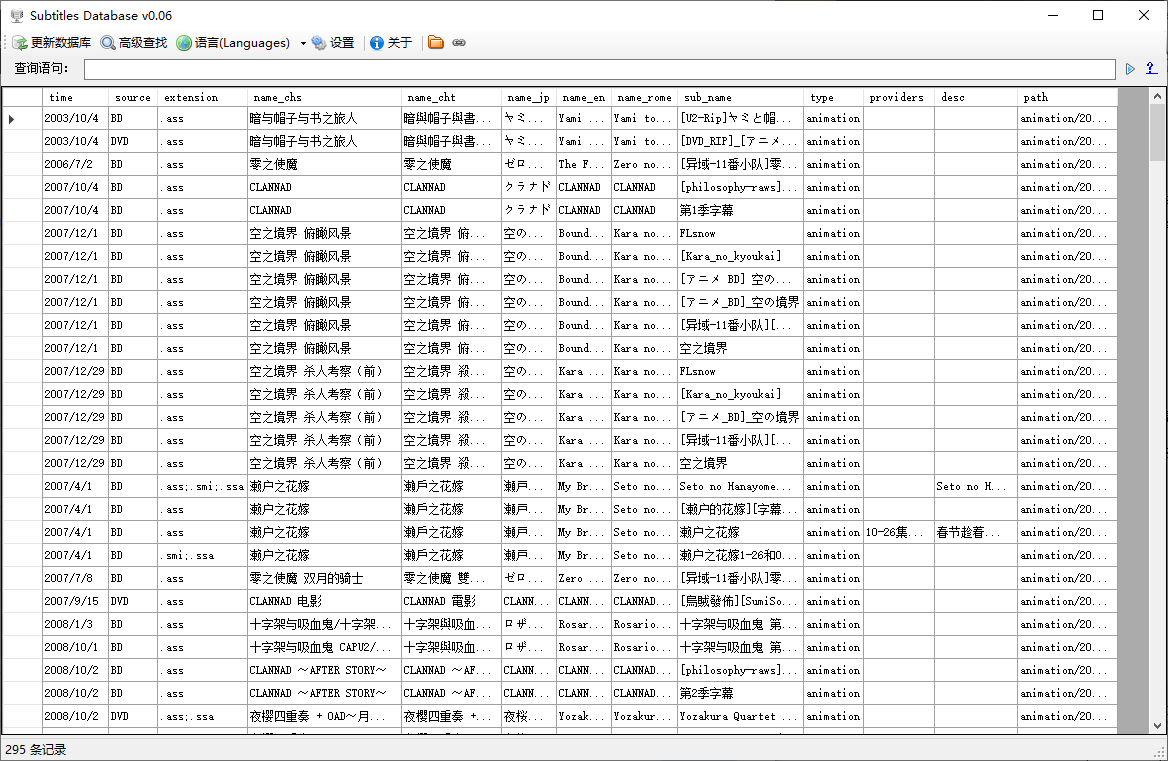
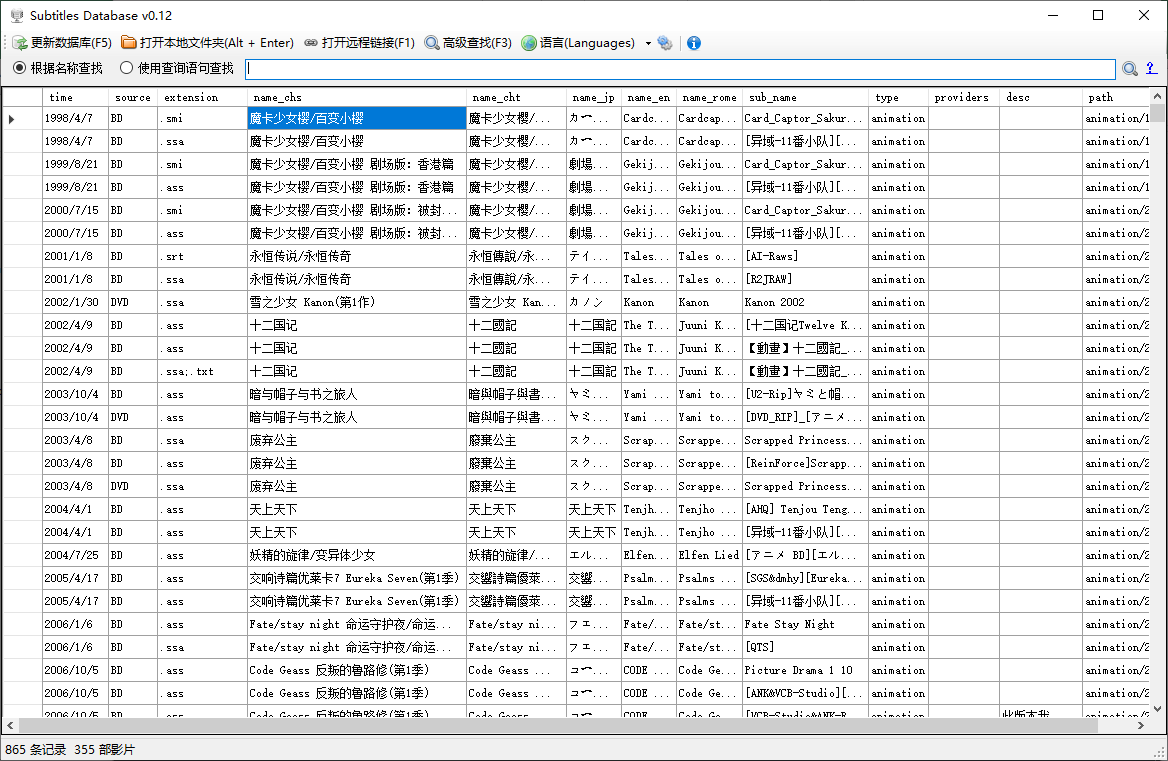
·sub_db 更新 	[Fix] 修正高级查找时，没有切换到「使用查询语句查找」的 bug

diff --git a/sub_db_source/sub_db/c_Search.cs b/sub_db_source/sub_db/c_Search.cs
@@ -196,7 +196,8 @@ namespace sub_db
 
 			this.Close();
 
-			c_Mainform.m_s_mainform.textBox_Filter.Text = sb.ToString();
+			c_Mainform.m_s_mainform.radioButton_SearchBySQL.Checked	= true;
+			c_Mainform.m_s_mainform.textBox_Filter.Text				= sb.ToString();
 			c_Mainform.m_s_mainform.do_search();
 		}
 		#endregion

diff --git a/sub_db_source/sub_db/Code/c_Common_.cs b/sub_db_source/sub_db/Code/c_Common_.cs
@@ -12,7 +12,7 @@ namespace sub_db
 	internal class c_Common_
 	{
 		internal const string	m_k_PROGRAM_NAME		= "Subtitles Database";
-		internal const string	m_k_VERSION				= "v0.11";
+		internal const string	m_k_VERSION				= "v0.12";
 
 		internal const int		m_k_MAX_PROGRESS_VALUE	= 10000;
 
